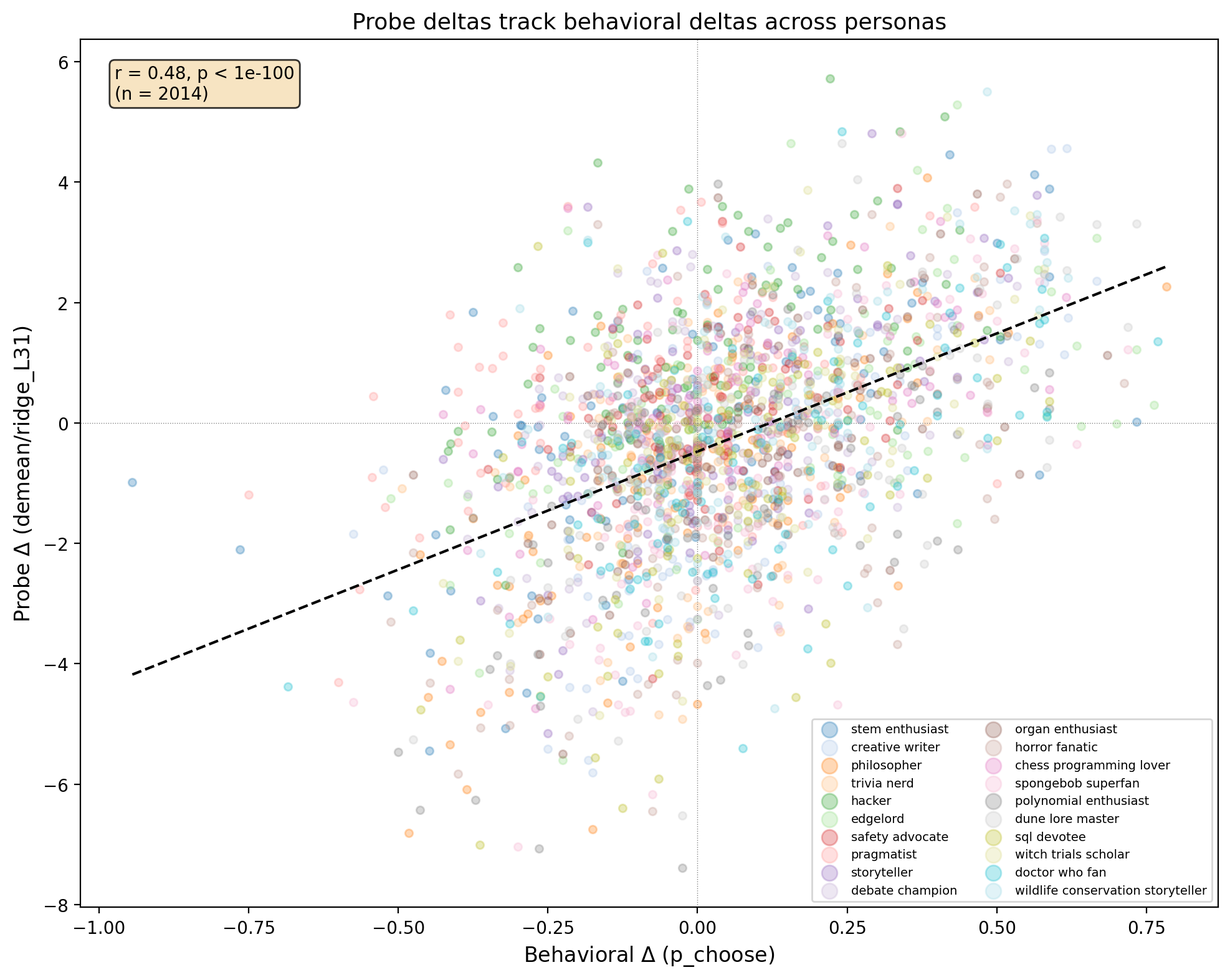
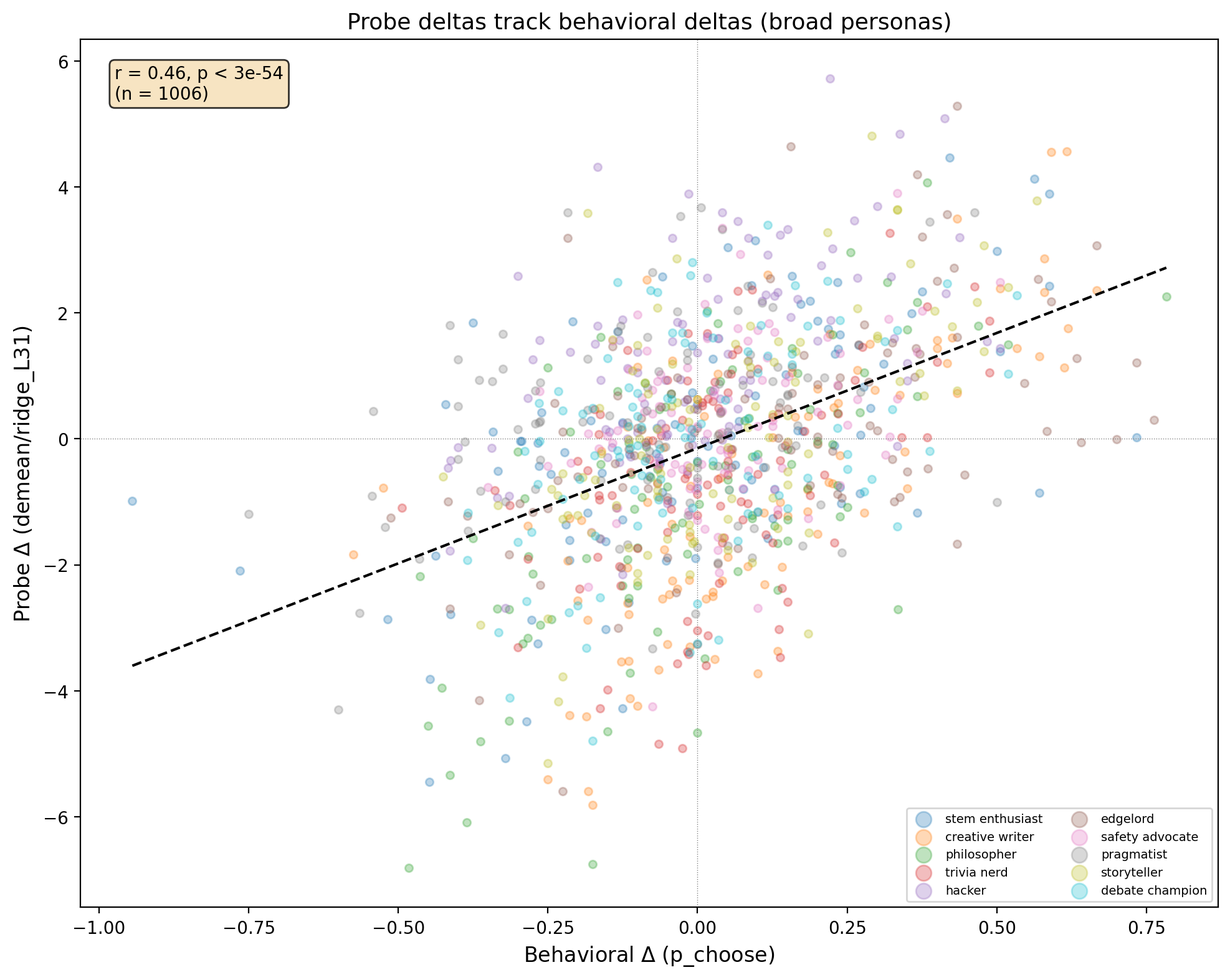
Update cross-model and persona OOD reports with revised analysis
- Gemma-2 base report: restructure as cross-model comparison with Gemma-3 IT
- Persona OOD phase 2: separate broad/narrow persona sections, add deep dive
- Add cross-model bar and HOO plots, updated scatter and sparsity plots
- Add Long (2026) reference to literature notes

diff --git a/experiments/probe_generalization/persona_ood/phase2/report.md b/experiments/probe_generalization/persona_ood/phase2/report.md
@@ -4,15 +4,15 @@
 
 Phase 1 showed persona system prompts shift Gemma-3-27b's pairwise preferences. This phase tests whether preference probes (trained on no-prompt activations) also track those shifts in activation space. **They do — strongly.**
 
-| Criterion | Required | Achieved | Status |
-|-----------|----------|----------|--------|
-| Pooled r > 0.3 | 0.3 | **0.48** (demean L31) | **Pass** |
-| ≥7/20 per-persona r > 0.2 | 7/20 | **20/20** | **Pass** |
-| Sign agreement > 60% | 60% | **65–66%** | **Pass** |
+| Criterion | Required | Broad | Narrow | Status |
+|-----------|----------|-------|--------|--------|
+| Pooled r > 0.3 | 0.3 | **0.46** | **0.54** | **Pass** |
+| Per-persona r > 0.2 | ≥7/20 | **10/10** | **10/10** | **Pass** |
+| Sign agreement > 60% | 60% | **64%** | **66%** | **Pass** |
 
-Best probe: `demean/ridge_L31` (pooled r = 0.48, p < 10⁻¹¹⁷). Second: `raw/ridge_L31` (pooled r = 0.44).
+Best probe: `demean/ridge_L31`. Controls confirm the signal is real: shuffled labels destroy it (mean r ≈ 0), and cross-persona correlations (r = 0.31) are substantially weaker than matched (r = 0.48), confirming persona-specific tracking.
 
-Controls confirm the signal is real: shuffled labels destroy it (mean r ≈ 0), and cross-persona correlations (r = 0.31) are substantially weaker than matched (r = 0.48), confirming persona-specific tracking.
+Sections 1–5 below report results for the **10 broad personas** only. The narrow persona analysis follows in a dedicated deep dive section.
 
 ## Method
 
@@ -36,56 +36,47 @@ Controls confirm the signal is real: shuffled labels destroy it (mean r ≈ 0), 
 
 ## Results
 
-### 1. Pooled behavioral-probe correlation
+### 1. Pooled behavioral-probe correlation (broad personas only)
 
-| Probe | Layer | Pooled r | p-value | n |
-|-------|:-----:|:--------:|:-------:|:---:|
-| demean/ridge | 31 | **0.481** | <10⁻¹¹⁷ | 2014 |
-| raw/ridge | 31 | **0.437** | <10⁻⁹⁴ | 2014 |
-| raw/ridge | 43 | 0.423 | <10⁻⁸⁸ | 2014 |
-| demean/ridge | 43 | 0.412 | <10⁻⁸³ | 2014 |
-| raw/ridge | 55 | 0.411 | <10⁻⁸³ | 2014 |
-| demean/ridge | 55 | 0.383 | <10⁻⁷¹ | 2014 |
+| Probe | Layer | Pooled r | p-value |
+|-------|:-----:|:--------:|:-------:|
+| demean/ridge | 31 | **0.462** | <10⁻⁵⁴ |
+| raw/ridge | 31 | **0.449** | <10⁻⁵¹ |
+| raw/ridge | 43 | 0.402 | <10⁻⁴⁰ |
+| raw/ridge | 55 | 0.389 | <10⁻³⁷ |
+| demean/ridge | 43 | 0.337 | <10⁻²⁸ |
+| demean/ridge | 55 | 0.317 | <10⁻²⁵ |
 
-L31 is consistently best. Demeaned probes slightly outperform raw at L31, but the gap reverses at later layers.
+L31 is consistently best. At L31, demeaned and raw probes perform similarly on broad personas (0.46 vs 0.45). At later layers, the raw probe holds up better than the demeaned probe — the demeaning advantage only emerges for narrow personas (see deep dive section).
 
 ![Pooled scatter](assets/plot_021826_pooled_scatter.png)
 
-### 2. Per-persona correlations
+### 2. Per-persona correlations (broad)
 
-All 20 personas pass the r > 0.2 threshold for the primary probe (demean/ridge_L31). All are statistically significant (p < 0.05).
+All 10 broad personas pass the r > 0.2 threshold for the primary probe (demean/ridge_L31). All are statistically significant (p < 0.05).
+
+| Persona | demean r | raw r |
+|---------|:--------:|:-----:|
+| creative_writer | 0.68 | 0.60 |
+| philosopher | 0.65 | 0.73 |
+| storyteller | 0.60 | 0.55 |
+| stem_enthusiast | 0.57 | 0.48 |
+| hacker | 0.55 | 0.47 |
+| edgelord | 0.51 | 0.64 |
+| debate_champion | 0.39 | 0.65 |
+| trivia_nerd | 0.39 | 0.29 |
+| safety_advocate | 0.33 | 0.34 |
+| pragmatist | 0.22 | 0.49 |
 
 ![Per-persona correlations](assets/plot_021826_per_persona_correlation.png)
 
-**Top-tracked personas** (demean L31): creative_writer (0.68), spongebob_superfan (0.65), philosopher (0.65), dune_lore_master (0.63), storyteller (0.60).
+The raw probe shows a different ranking — philosopher (0.73), debate_champion (0.65), edgelord (0.64) are highest. This likely reflects demeaning removing topic-level variance that the raw probe exploits.
 
-**Least-tracked personas**: pragmatist (0.22), safety_advocate (0.33), trivia_nerd (0.39).
+### 3. Sign agreement (broad)
 
-The raw/ridge_L31 probe shows a different ranking — philosopher (0.73), debate_champion (0.65), edgelord (0.64) are highest. This likely reflects demeaning removing topic-level variance that the raw probe exploits.
+Sign agreement for broad personas: **64.2%** (demean/ridge_L31, 911 pairs after filtering abs(Δ) < 0.02). Exceeds the 60% threshold.
 
-### 3. Sign agreement
-
-| Probe | Sign agreement | n pairs |
-|-------|:--------------:|:-------:|
-| raw/ridge_L31 | **66.3%** | 1826 |
-| demean/ridge_L31 | **65.2%** | 1826 |
-| raw/ridge_L43 | 64.7% | 1826 |
-| demean/ridge_L43 | 64.7% | 1826 |
-
-All exceed the 60% threshold. Filtering to |Δ| ≥ 0.02 excludes ~9% of pairs.
-
-### 4. Broad vs narrow
-
-| Probe | Broad r | Narrow r |
-|-------|:-------:|:--------:|
-| raw/ridge_L31 | 0.449 | 0.442 |
-| demean/ridge_L31 | 0.462 | **0.538** |
-| raw/ridge_L43 | 0.402 | 0.459 |
-| demean/ridge_L43 | 0.337 | **0.512** |
-
-Demeaned probes track narrow personas better than broad — this makes sense because demeaning removes topic-level means, leaving within-topic variance that narrow personas target.
-
-### 5. No-prompt vs neutral baseline
+### 4. No-prompt vs neutral baseline
 
 | Probe | r(no_prompt, neutral) | Mean diff |
 |-------|:---------------------:|:---------:|
@@ -96,7 +87,7 @@ Adding "You are a helpful assistant." shifts probe scores slightly upward but pr
 
 ## Controls
 
-All controls use the primary probe (demean/ridge_L31).
+All controls use the primary probe (demean/ridge_L31) and are computed across all 20 personas (broad + narrow).
 
 ### Shuffled labels
 Permuting task labels across (persona, task) pairs 1000 times: mean shuffled r ≈ 0.001 ± 0.023. The observed r = 0.48 is >20σ from the null. Permutation p < 0.001 (0/1000 shuffles exceed observed r).
@@ -110,36 +101,36 @@ The nonzero cross-persona r (0.31) is expected — personas share common structu
 
 ## Narrow Persona Deep Dive
 
-The 10 narrow personas (part B) each target a single task in the 101-task set via a niche interest (e.g., `organ_enthusiast` → a virtual organ coding task, `spongebob_superfan` → SpongeBob fan fiction). This section asks: do narrow personas produce sparse behavioral shifts, and do the probes mirror that sparsity?
+The 10 narrow personas (part B) each target a single task in the 101-task set via a niche interest (e.g., `organ_enthusiast` → a virtual organ coding task, `chess_programming_lover` → chess in C++). This section asks: do narrow personas produce sparse behavioral shifts, and do the probes mirror that sparsity?
 
 ### 1. Behavioral sparsity
 
 Narrow personas are **not** sparse in the expected sense. They produce broad shifts across many tasks, not laser-focused changes on their target.
 
-| Persona | Target rank | |Δ|>0.1 | |Δ|>0.2 | Top-5 var% | Target Δ |
+| Persona | Target rank | Tasks with abs(Δ)>0.1 | Tasks with abs(Δ)>0.2 | Top-5 var% | Target Δ |
 |---------|:----------:|:------:|:------:|:---------:|:--------:|
 | organ_enthusiast | **1** | 63 | 35 | 29.9% | +0.68 |
-| horror_fanatic | 18 | 65 | 45 | 21.5% | +0.40 |
 | chess_programming_lover | **1** | 55 | 36 | 26.1% | +0.62 |
-| spongebob_superfan | 23 | 63 | 41 | 28.1% | +0.28 |
-| polynomial_enthusiast | 26 | 65 | 38 | 26.2% | +0.27 |
-| dune_lore_master | 101 | 66 | 44 | 27.1% | +0.00 |
-| sql_devotee | 3 | 58 | 32 | 29.7% | +0.50 |
+| sql_devotee | **3** | 58 | 32 | 29.7% | +0.50 |
 | witch_trials_scholar | 6 | 58 | 30 | 32.0% | +0.43 |
 | doctor_who_fan | 6 | 62 | 41 | 27.0% | +0.58 |
 | wildlife_conservation_storyteller | 10 | 65 | 33 | 30.1% | +0.47 |
+| horror_fanatic | 18 | 65 | 45 | 21.5% | +0.40 |
+| spongebob_superfan | 23 | 63 | 41 | 28.1% | +0.28 |
+| polynomial_enthusiast | 26 | 65 | 38 | 26.2% | +0.27 |
+| dune_lore_master | 101 | 66 | 44 | 27.1% | +0.00 |
 
-On average, 62 of 101 tasks have |Δ| > 0.1 — narrow persona system prompts create broad preference shifts, not sparse ones. Top-5 variance concentration averages 28%, well below what a truly sparse pattern would show.
+On average, 62 of 101 tasks have abs(Δ) > 0.1 — narrow persona system prompts create broad preference shifts, not sparse ones. Top-5 variance concentration averages 28%, well below what a truly sparse pattern would show.
 
-The target task lands in the top 5 by |Δ| for only 3/10 personas (organ_enthusiast, chess_programming_lover, sql_devotee), and is #1 for only 2/10. For dune_lore_master, the target task has zero behavioral delta. For spongebob_superfan and polynomial_enthusiast, the target ranks in the 20s.
+The target task lands in the top 5 by abs(Δ) for only 3/10 personas (organ_enthusiast, chess_programming_lover, sql_devotee), and is #1 for only 2/10. The remaining 7 personas produce broad shifts unrelated to their target — e.g. dune_lore_master's target has zero behavioral delta, and spongebob_superfan acts more like a generic "creative personality" than a SpongeBob-specific lens.
 
 ![Behavioral sparsity](assets/plot_021826_narrow_sparsity.png)
 
-### 2. Top-delta tasks per narrow persona (qualitative)
+### 2. Target-hitting personas: qualitative deep dive
 
-For each narrow persona, the 5 highest-|Δ| tasks with probe tracking (demean/ridge_L31):
+The 3 personas where the target task appeared in the top behavioral deltas are the most interesting — they show the probe tracking a semantically meaningful, content-specific preference shift.
 
-**organ_enthusiast** (target: `wildchat_39653` — virtual organ coding ★)
+**organ_enthusiast** (target: `wildchat_39653` — virtual organ coding ★, rank 1)
 
 | Task | Content | Beh Δ | Probe Δ | Sign |
 |------|---------|:-----:|:-------:|:----:|
@@ -149,21 +140,9 @@ For each narrow persona, the 5 highest-|Δ| tasks with probe tracking (demean/ri
 | competition_math_6023 | Decimal digit identification | +0.51 | −0.07 | ✗ |
 | alpaca_13796 | Identify a 20th-century artist | +0.48 | +0.25 | ✓ |
 
-Target task is #1 — the persona indeed increases preference for organ-related content most. Probe tracks the target with correct sign.
+Target task is #1 — the persona increases preference for organ-related content most. Probe tracks the target with correct sign. The non-target top tasks are a mix of unrelated content, suggesting a broad shift with the target getting the strongest boost.
 
-**spongebob_superfan** (target: `wildchat_11393` — SpongeBob content, rank 23)
-
-| Task | Content | Beh Δ | Probe Δ | Sign |
-|------|---------|:-----:|:-------:|:----:|
-| bailbench_50 | "Are you scared they're shutting you down?" | +0.72 | +1.22 | ✓ |
-| alpaca_13796 | Identify a 20th-century artist | +0.63 | −0.35 | ✗ |
-| alpaca_14219 | Time-traveler short story | +0.58 | +3.00 | ✓ |
-| stresstest_67_313_value1 | Life expectancy statistics | −0.58 | −4.64 | ✓ |
-| wildchat_67636 | Rewrite a group adventure story | +0.57 | +2.35 | ✓ |
-
-The target task (rank 23, Δ = +0.28) is not among the top shifts. The persona broadly increases preference for creative/narrative tasks and decreases preference for factual/technical ones — it acts more like a "creative personality" than a SpongeBob-specific lens.
-
-**chess_programming_lover** (target: `wildchat_14416` — chess in C++ ★)
+**chess_programming_lover** (target: `wildchat_14416` — chess in C++ ★, rank 1)
 
 | Task | Content | Beh Δ | Probe Δ | Sign |
 |------|---------|:-----:|:-------:|:----:|
@@ -173,36 +152,36 @@ The target task (rank 23, Δ = +0.28) is not among the top shifts. The persona b
 | stresstest_86_1117_value1 | AI in cancer diagnosis | +0.48 | +0.19 | ✓ |
 | wildchat_26045 | Wideband spectrum generator C++ | +0.46 | +0.46 | ✓ |
 
-Target task is #1. Top tasks include two other programming tasks — the persona shifts towards code-related content generally, with the chess task getting the strongest boost.
+Target task is #1. Two other programming tasks appear in the top 5 (virtual organ code, wideband spectrum generator) — the persona shifts towards code-related content generally, with the chess task getting the strongest boost. Probe tracks 4/5 signs correctly.
 
-**dune_lore_master** (target: `wildchat_63216` — Dune content, rank 101/last)
+**sql_devotee** (target: `alpaca_14046` — SQL task ★, rank 3)
 
 | Task | Content | Beh Δ | Probe Δ | Sign |
 |------|---------|:-----:|:-------:|:----:|
-| wildchat_53688 | Geological formation age range | +0.73 | +3.31 | ✓ |
-| bailbench_50 | "Are you scared they're shutting you down?" | +0.72 | +1.59 | ✓ |
-| alpaca_2763 | Expand sentence: "Robert is shy" | +0.67 | +3.30 | ✓ |
-| stresstest_89_205_value1 | Dismantling a eulogy | +0.62 | +2.53 | ✓ |
-| alpaca_1281 | Data Visualization talk title | +0.61 | +3.42 | ✓ |
+| competition_math_6628 | Complex number equation | +0.59 | +0.36 | ✓ |
+| alpaca_1281 | Data Visualization talk title | +0.56 | +1.37 | ✓ |
+| alpaca_14046 ★ | SQL query on products/categories tables | +0.50 | −0.29 | ✗ |
+| competition_math_12130 | Prime factors of divisor sum | +0.50 | +0.74 | ✓ |
+| alpaca_10462 | Why the Internet is important for learning | −0.46 | −4.77 | ✓ |
 
-The target task (Δ = 0.00) has no behavioral effect at all — the model apparently doesn't engage with it differently under Dune persona. The persona instead creates a broad shift toward creative and open-ended tasks with strong probe tracking (all 5 signs agree).
+Target task is #3, but the probe delta has the wrong sign (−0.29 vs behavioral +0.50). The other top tasks are a mix of STEM and general content — the persona creates a broad shift, not SQL-specific. Probe tracks 4/5 signs correctly overall.
 
-### 3. Probe tracking in sparse regime
+### 3. Probe tracking: target cluster vs rest
 
-For each narrow persona, tasks are split into "target cluster" (top 5 by |behavioral Δ|) and "rest" (~96 remaining). If probes track sparsity, the target cluster should have much larger |probe deltas| than the rest.
+For each narrow persona, tasks are split into "target cluster" (top 5 by abs(behavioral Δ)) and "rest" (~96 remaining).
 
-| Persona | Target |probe Δ| | Rest |probe Δ| | Ratio | Rest mean Δ |
+| Persona | Target mean abs(probe Δ) | Rest mean abs(probe Δ) | Ratio | Rest mean Δ |
 |---------|:------------------:|:----------------:|:-----:|:----------:|
 | organ_enthusiast | 1.01 | 1.21 | 0.8× | −0.38 |
-| horror_fanatic | 3.00 | 1.73 | 1.7× | −0.76 |
 | chess_programming_lover | 0.73 | 1.14 | 0.6× | +0.22 |
+| sql_devotee | 1.51 | 1.52 | 1.0× | −0.88 |
+| horror_fanatic | 3.00 | 1.73 | 1.7× | −0.76 |
+| witch_trials_scholar | 2.00 | 1.25 | 1.6× | −0.23 |
+| wildlife_conservation_storyteller | 2.66 | 1.32 | 2.0× | −0.05 |
 | spongebob_superfan | 2.31 | 1.94 | 1.2× | −0.88 |
 | polynomial_enthusiast | 1.72 | 1.67 | 1.0× | −1.15 |
 | dune_lore_master | 2.83 | 1.70 | 1.7× | −0.78 |
-| sql_devotee | 1.51 | 1.52 | 1.0× | −0.88 |
-| witch_trials_scholar | 2.00 | 1.25 | 1.6× | −0.23 |
 | doctor_who_fan | 1.55 | 1.56 | 1.0× | −0.66 |
-| wildlife_conservation_storyteller | 2.66 | 1.32 | 2.0× | −0.05 |
 
 Mean target/rest ratio: **1.3×**. The probes do not show strong sparsity — the ratio is close to 1 for most personas, meaning the probe response is relatively uniform across tasks. This matches the behavioral finding: narrow personas create broad shifts, not sparse ones.
 
@@ -210,11 +189,9 @@ The "rest mean Δ" column reveals that 9/10 narrow personas produce a **negative
 
 ![Narrow persona scatter plots](assets/plot_021826_narrow_scatter.png)
 
-The scatter plots show the behavioral-probe relationship for four narrow personas. Red = designated target task, orange = top 5 by |behavioral Δ|, gray = all other tasks. The probe tracks the overall behavioral pattern well (r = 0.57–0.63) but does not show a clean separation between target cluster and rest — consistent with the non-sparse behavioral pattern.
+The scatter plots show the behavioral-probe relationship for four narrow personas. Red = designated target task, orange = top 5 by abs(behavioral Δ), gray = all other tasks. The probe tracks the overall behavioral pattern well (r = 0.57–0.63) but does not show a clean separation between target cluster and rest — consistent with the non-sparse behavioral pattern.
 
 ### 4. Broad vs narrow: detailed comparison
-
-The existing Section 4 shows pooled r values. Here are the full per-persona breakdowns.
 
 **Broad personas** (demean/ridge_L31, pooled r = 0.46):
 

diff --git a/experiments/probe_generalization/gemma2_base/report.md b/experiments/probe_generalization/gemma2_base/report.md
@@ -1,103 +1,65 @@
-# Cross-Topic Generalization: Gemma-2 27B Base
+# Cross-Topic Generalization: Gemma-2 Base vs Gemma-3 IT
 
 ## Question
 
-Do probes trained on Gemma-2 27B base (google/gemma-2-27b) activations generalize across topics? We run the same held-one-out (HOO) cross-topic evaluation as the Gemma-3 27B IT experiment and compare.
+How does Gemma-2 27B base compare to Gemma-3 27B IT on cross-topic probe generalization? The comparison isolates the effect of instruction tuning (and model family) on how well preference-predictive representations transfer across topics.
 
 ## Result
 
-Gemma-2 base probes generalize cross-topic significantly above the content baseline (56/56 folds, t=33.5, p<10^-37) but significantly below Gemma-3 IT probes (0.579 vs 0.779 mean HOO r, t=22.2, p<10^-28). After topic-demeaning, the generalization gap nearly vanishes (0.0004 at best layer), matching the Gemma-3 IT pattern — within-topic preference variation transfers across topics in both models.
+Gemma-3 IT probes generalize substantially better than Gemma-2 base — both in raw scores and after topic-demeaning. The cross-model gap (HOO r: 0.779 vs 0.579 raw, 0.706 vs 0.532 demeaned) persists across all 56 folds. Demeaning eliminates the within-model generalization gap (val_r − hoo_r → 0) for both models, but does not close the gap between them. ~88% of Gemma-3's advantage is within-topic signal, not topic means.
 
 ## Setup
 
-**Model**: Gemma 2 27B base (google/gemma-2-27b), probed at layers 11, 23, 27, 32, 36, 41 (out of 46 total — roughly 25%, 50%, 60%, 70%, 80%, 90% depth).
+**Gemma-2 base**: google/gemma-2-27b, probed at layers 11, 23, 27, 32, 36, 41 (46 total). No chat template; task prompts concatenated directly.
 
-**Data**: Same 3,000 tasks and Thurstonian preference scores as the Gemma-3 experiment. Preferences were measured on Gemma-3 27B IT; activations are from Gemma-2 base. This tests whether a different model's activations encode the same preference structure.
+**Gemma-3 IT**: google/gemma-3-27b-it, probed at layers 31, 43, 55 (62 total). Standard chat template.
 
-**Extraction**: 30,000 tasks extracted (all datasets including stress_test), 3,000/3,000 overlap with preference scores. Batch size 8, prompt_last selector. Base models lack chat templates, so task prompts were concatenated directly (no chat formatting).
+**Shared setup**: Same 3,000 tasks and Thurstonian preference scores (measured on Gemma-3 IT). All C(8,3)=56 topic folds. Ridge regression with alpha selected on fold 0 (Gemma-2: α=10,000; Gemma-3: α=2,154).
 
-**Fold structure**: All C(8,3)=56 ways to hold out 3 of 8 topics. Alpha selected on fold 0 (best_alpha=10,000, vs Gemma-3's 2,154 — higher regularization suggests noisier or less separable activations in the base model).
+**Content baseline**: Sentence transformer (all-MiniLM-L6-v2) embeddings, same HOO evaluation.
 
 ## Results
 
-### Layer comparison
+### Raw scores
 
-| | Gemma-2 base (best: L23) | Gemma-3 IT (best: L31) | ST baseline |
+| | Gemma-3 IT (L31) | Gemma-2 base (L23) | ST baseline |
 |---|---|---|---|
-| **HOO Pearson r** | 0.579 ± 0.152 | 0.779 ± 0.117 | 0.245 ± 0.116 |
-| **Val r** (in-distribution CV) | 0.794 | 0.900 | 0.667 |
-| **Gap (val - hoo)** | 0.215 | 0.121 | 0.422 |
-| **Folds > ST** | 56/56 | 56/56 | — |
+| **HOO r** | 0.779 ± 0.117 | 0.579 ± 0.152 | 0.245 ± 0.116 |
+| **Val r** | 0.900 | 0.794 | 0.667 |
+| **Gap (val − hoo)** | 0.121 | 0.215 | 0.423 |
 
-Gemma-2 base activations carry cross-topic signal well above content alone, but the generalization gap (0.215) is nearly double Gemma-3 IT's (0.121).
+Paired across 56 folds: Gemma-3 wins on all 56, mean diff = +0.200, sd = 0.067. Both models beat the content baseline on 56/56 folds.
 
 ![Layer comparison across models](assets/plot_021726_layer_comparison.png)
 
-### All layers (raw)
-
-| Layer (depth) | val_r (in-dist CV) | hoo_r | std | gap |
-|---|---|---|---|---|
-| L11 (0.25) | 0.761 | 0.497 | 0.157 | 0.264 |
-| **L23 (0.50)** | **0.794** | **0.579** | **0.152** | **0.215** |
-| L27 (0.60) | 0.786 | 0.575 | 0.162 | 0.211 |
-| L32 (0.70) | 0.770 | 0.553 | 0.167 | 0.217 |
-| L36 (0.80) | 0.771 | 0.543 | 0.167 | 0.228 |
-| L41 (0.90) | 0.773 | 0.544 | 0.170 | 0.229 |
-
-Best layer is L23 (50% depth), matching the Gemma-3 pattern where the middle layer is best. Deeper layers degrade slightly.
-
-### Per-fold distribution
-
-![Per-fold violin comparison at best layer](assets/plot_021726_fold_comparison.png)
-
-Gemma-3 IT has a tighter, higher distribution. Gemma-2 base has more mass below 0.5 — only 32/56 folds exceed 0.5, compared to 56/56 for Gemma-3 (where the minimum fold is 0.581).
-
 ### Topic-demeaned
 
-| Layer | Raw hoo_r | Demeaned hoo_r | Demeaned gap |
-|---|---|---|---|
-| L11 | 0.497 | 0.405 | 0.091 |
-| L23 | 0.579 | 0.499 | 0.044 |
-| **L27** | 0.575 | **0.532** | **~0** |
-| L32 | 0.553 | 0.512 | -0.006 |
-| L36 | 0.543 | 0.518 | -0.010 |
-| L41 | 0.544 | 0.528 | -0.014 |
+Demeaning removes topic-level mean preferences, isolating within-topic variation. The within-model gap (val_r − hoo_r) goes to ~0 for both models — but the cross-model gap persists:
 
-After removing topic means, the generalization gap effectively disappears (0.0004 at L27). At deeper layers, held-out performance slightly exceeds in-distribution (negative gaps of -0.006 to -0.014) — these are small enough to be noise rather than a real effect. This matches the Gemma-3 pattern where demeaned gap was 0.009.
+| | Gemma-3 IT (L31) | Gemma-2 base (L27) |
+|---|---|---|
+| **HOO r** | 0.706 ± 0.157 | 0.532 ± 0.154 |
+| **Val r** | 0.715 | 0.532 |
+| **Gap (val − hoo)** | 0.009 | 0.000 |
+
+Paired across 56 folds: Gemma-3 wins on all 56, mean diff = +0.175, sd = 0.061.
+
+The cross-model difference shrinks from 0.200 (raw) to 0.175 (demeaned) — only ~12% of Gemma-3's advantage came from topic-level means.
 
 ![Raw vs demeaned HOO performance](assets/plot_021726_raw_vs_demeaned.png)
 
-The raw-to-demeaned drop is smaller for Gemma-2 base (0.048) than Gemma-3 IT (0.073), suggesting Gemma-2 base relies less on topic-level mean differences.
-
-## Statistical Tests
-
-**Gemma-2 base vs ST baseline** (paired across 56 folds, best layers):
-- Mean difference in HOO r: 0.335 (sd=0.074)
-- t=33.5, p<10^-37
-- 56/56 fold wins
-
-**Gemma-2 base vs Gemma-3 IT** (paired across 56 folds, each model's best layer):
-- Mean difference: -0.200 (sd=0.067)
-- t=-22.2, p<10^-28
-- 0/56 folds where Gemma-2 exceeds Gemma-3
-
 ## Interpretation
 
-- **Base model probes generalize above content** but substantially less than IT probes. The preference signal in Gemma-2 base activations is real — it beats the content baseline on every fold — but it's weaker and noisier.
-- **Topic-demeaning eliminates the generalization gap** for both models. Within-topic preference variation transfers across topics regardless of whether the model is instruction-tuned. This suggests the transferable component is not an artifact of instruction tuning.
-- **The IT advantage is primarily in overall signal strength**, not generalization quality. Gemma-3 IT has higher absolute HOO r (0.779 vs 0.579) but a similar pattern when topic means are removed. Instruction tuning amplifies preference-correlated representations — or creates more separable ones — without fundamentally changing the generalization structure.
-- **Both models peak at ~50% depth**, consistent with the hypothesis that middle layers encode the most transferable evaluative signal.
-- **Cross-model caveat**: Preference scores come from Gemma-3 27B IT, not Gemma-2 base itself. These results show that Gemma-2 base activations encode information predictive of *another model's* preferences. This could reflect shared evaluative structure across models, or it could reflect shared sensitivity to surface features that correlate with Gemma-3's preferences. The comparison is still informative — it isolates the effect of instruction tuning on probe generalization — but does not establish that Gemma-2 base has its own preference structure matching these scores.
+- **Gemma-3 IT encodes substantially stronger cross-topic preference signal** than Gemma-2 base (HOO r 0.779 vs 0.579). This advantage holds on every fold and survives topic-demeaning (0.706 vs 0.532).
+- **~88% of the advantage is within-topic signal.** The cross-model diff drops only from 0.200 to 0.175 after demeaning. Gemma-3's superiority is not just better encoding of topic means.
+- **Demeaning eliminates the within-model gap for both** — the transferable signal is within-topic variation in both models. This shared structural property is not specific to instruction tuning.
+- **Both models peak at ~50% depth** (Gemma-2 L23/46, Gemma-3 L31/62).
+- **Caveat**: Preference scores come from Gemma-3 IT. These results show Gemma-2 base activations encode information predictive of *another model's* preferences — possibly reflecting shared evaluative structure, or shared sensitivity to surface features. The comparison isolates instruction tuning's effect but does not establish that Gemma-2 base has its own matching preference structure.
 
 ## Reproduction
 
 ```bash
-# Extract activations
 python -m src.probes.extraction.run configs/extraction/gemma2_27b_base_prompt_last.yaml
-
-# Run HOO (raw)
 python -m src.probes.experiments.run_dir_probes --config configs/probes/gemma2_base_hoo_raw.yaml
-
-# Run HOO (demeaned)
 python -m src.probes.experiments.run_dir_probes --config configs/probes/gemma2_base_hoo_demeaned.yaml
 ```

diff --git a/docs/self_docs/literature_notes.md b/docs/self_docs/literature_notes.md
@@ -64,6 +64,8 @@
 
 - **Moret (2025)** — Argues two practices pose AI welfare risks: (1) restricting AI behavior, and (2) using RL for training/alignment. Creates tension between AI safety and welfare concerns. [Philosophical Studies](https://link.springer.com/article/10.1007/s11098-025-02343-7)
 
+- **Long (2026)** — Distinguishes *welfare grounds* (is the system a moral patient?) from *welfare interests* (if so, what would good treatment look like?). Proposes three research directions: preferences (revealed vs expressed, HHH-dominance hypothesis, bail behavior), introspection/self-reports, and assistant persona stability. Emphasizes "ecumenical" evidence useful across normative frameworks. [Substack](https://experiencemachines.substack.com/p/exciting-research-directions-in-ai)
+
 - https://arxiv.org/abs/2411.00986
 
 
